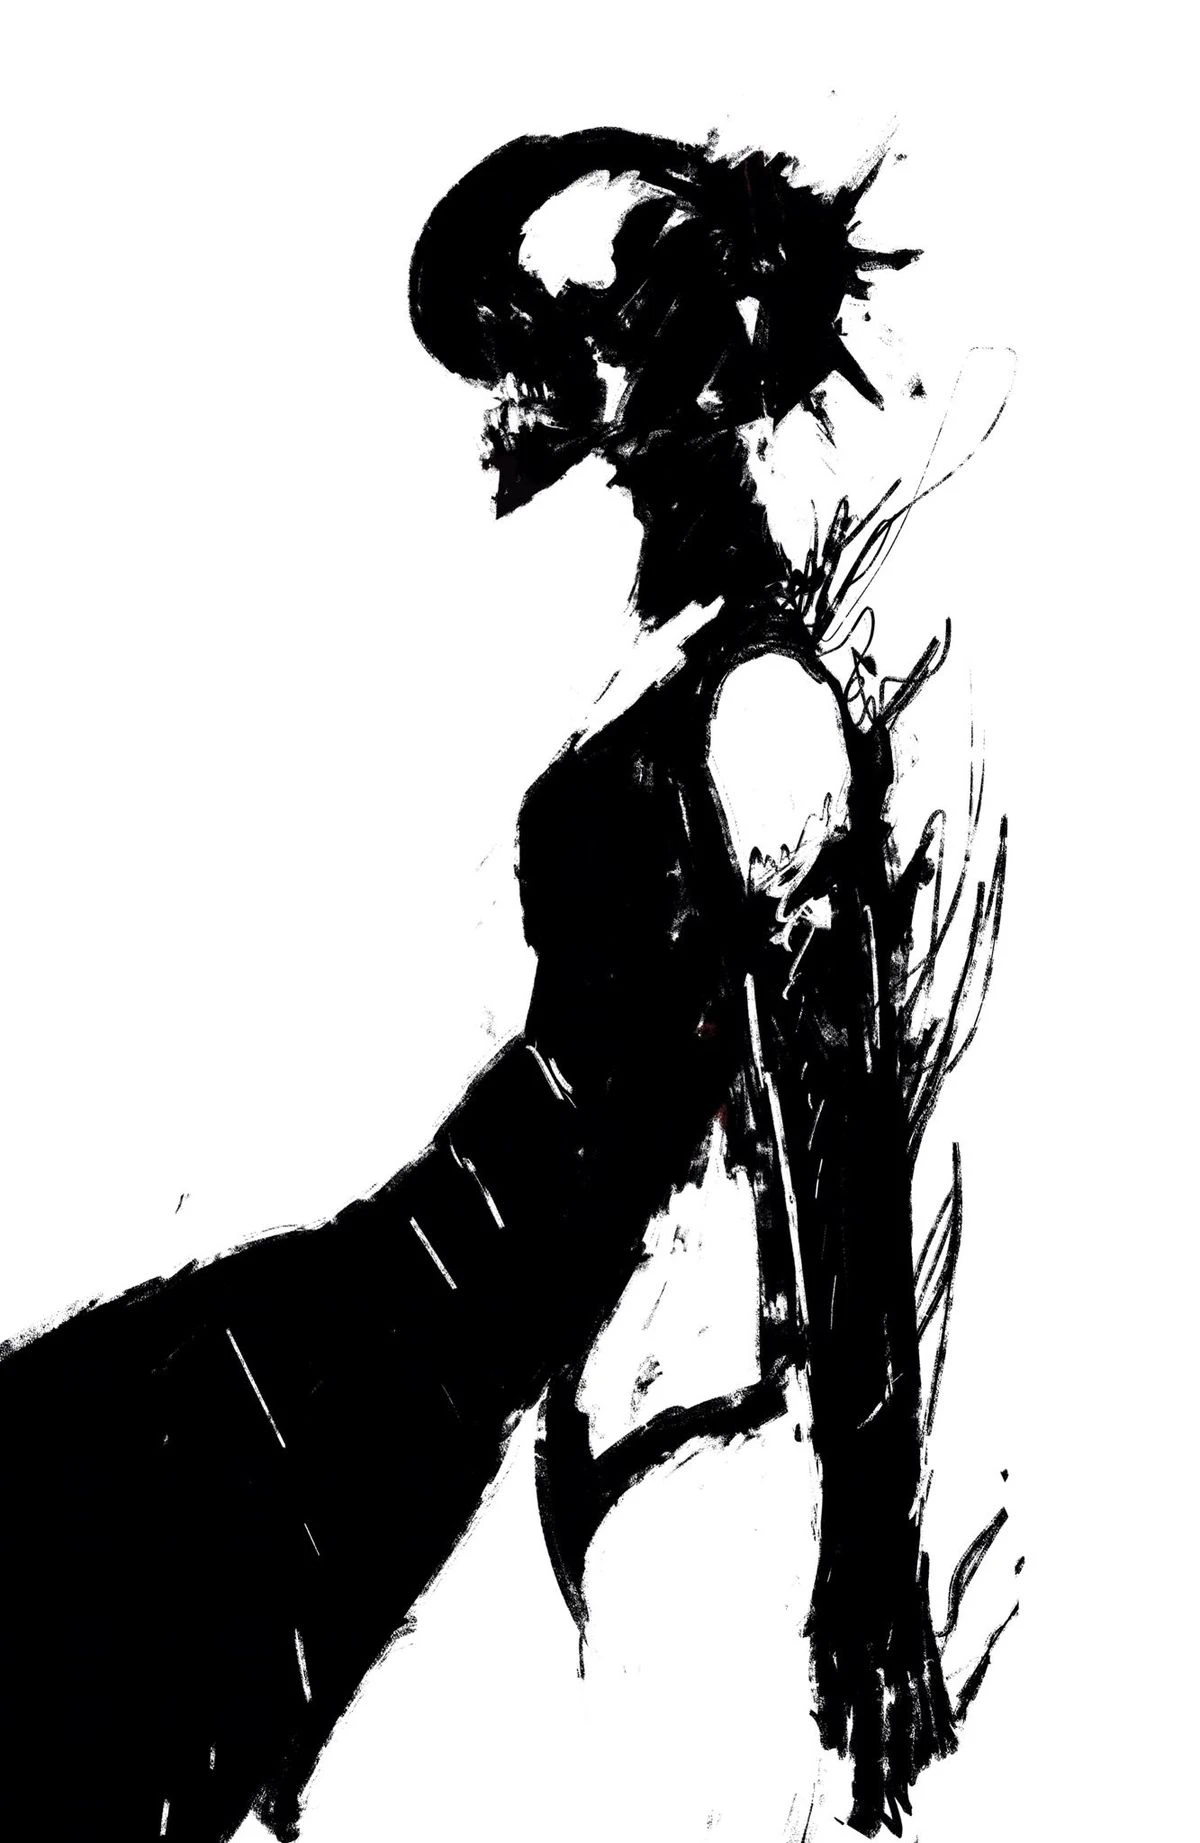
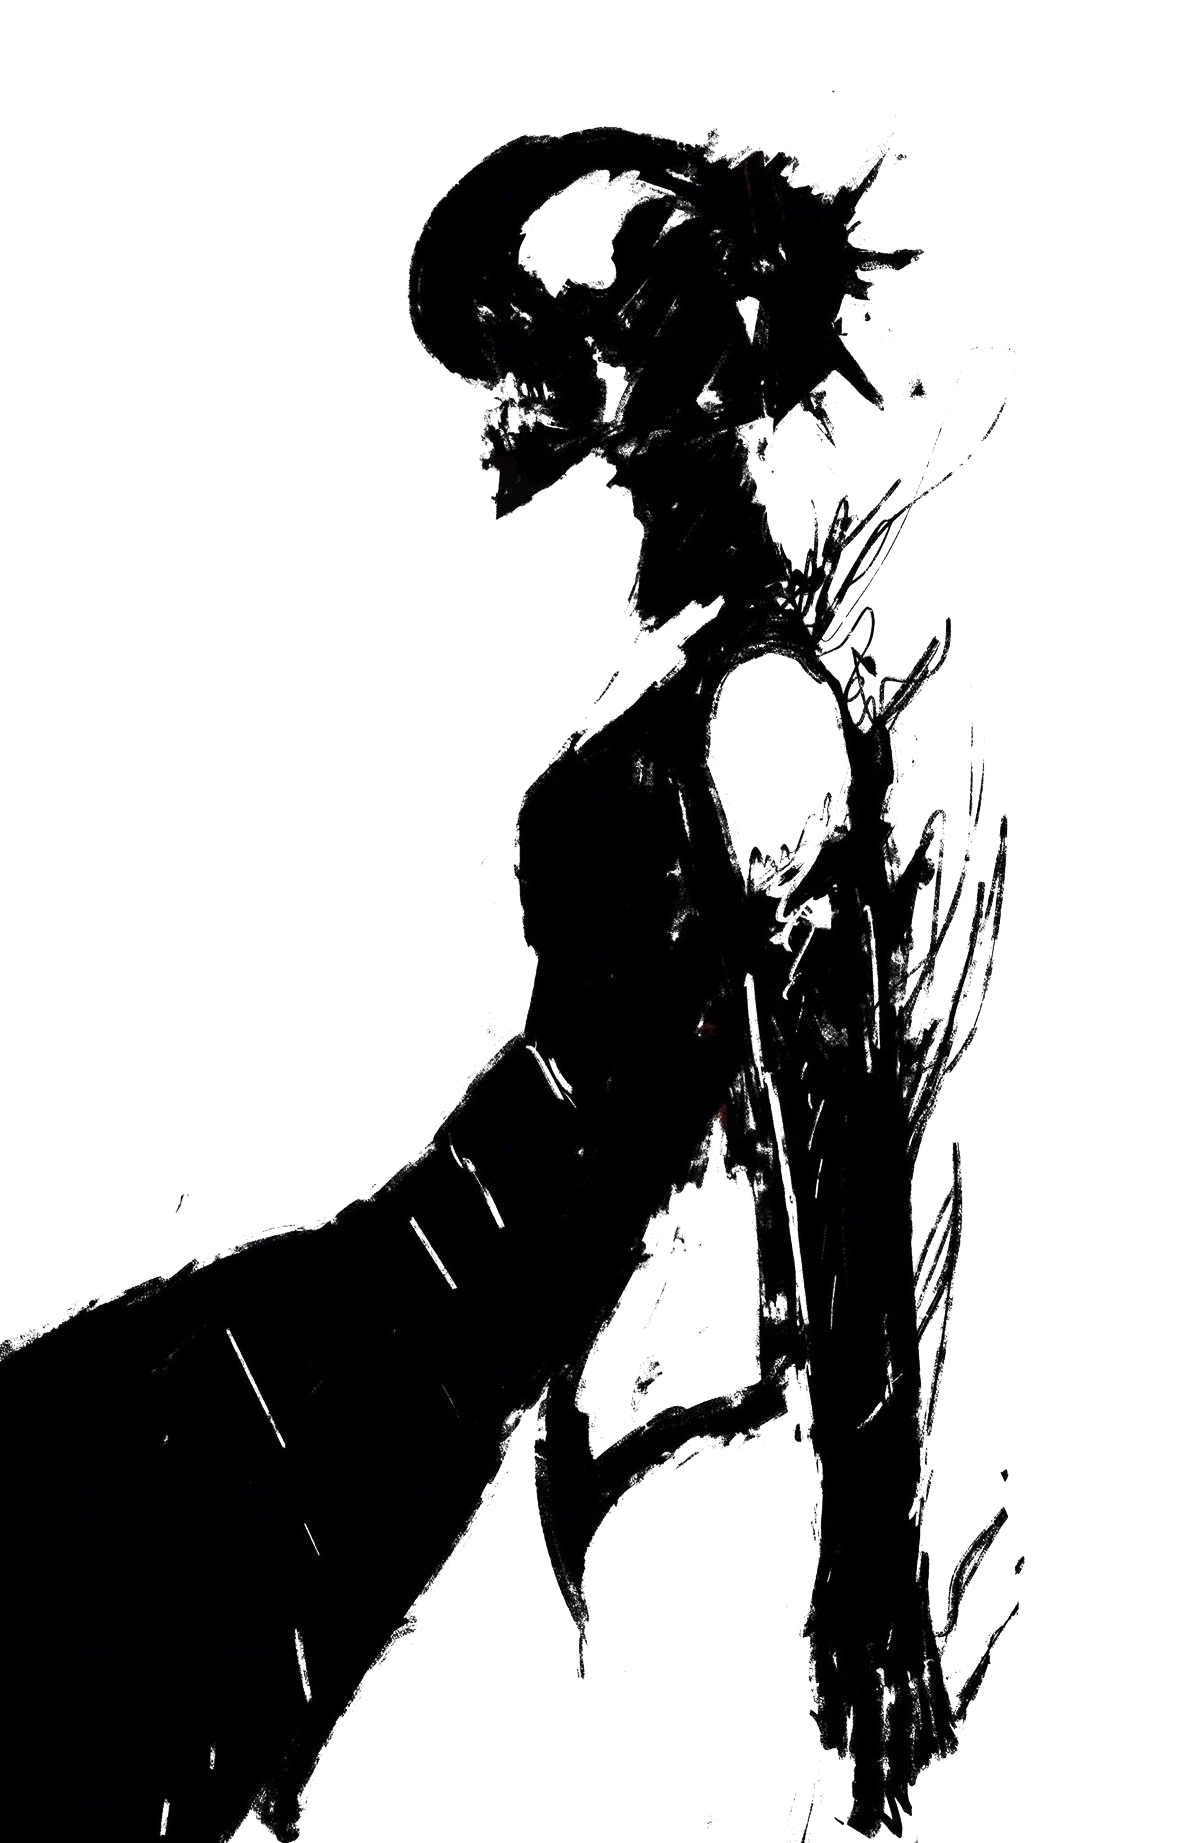
AB#76 Fit the footer stage picture whole, with a transparent background [feat]

diff --git a/platform/frontend/lib/landing-features.ts b/platform/frontend/lib/landing-features.ts
@@ -13,8 +13,10 @@ export type FeatureMedia =
   /** A generated blue pattern. `pattern` picks which of the six. */
   | { kind: "tile"; pattern: TilePattern }
   /** `tone: "duotone"` (the default) tints it to the page's blue, like the rest of the
-   * grid; `"natural"` leaves it as it is. */
-  | { kind: "image"; src: string; altKey: string; tone?: FeatureTone }
+   * grid; `"natural"` leaves it as it is. `fit: "cover"` (the default) fills its box,
+   * cropping to it; `"contain"` shows the whole picture, letterboxed in the duotone's own
+   * blue — for a picture whose box isn't square, like the footer stage. */
+  | { kind: "image"; src: string; altKey: string; tone?: FeatureTone; fit?: "cover" | "contain" }
   /** Several pictures that take turns in the same square, cross-fading. Only while the cell is on
    * screen, and never under reduced motion, where the first one stays. Each carries a short
    * description (`altKey`) and a label shown on it (`titleKey`, `captionKey`). */

diff --git a/platform/frontend/components/landing/feature-media.tsx b/platform/frontend/components/landing/feature-media.tsx
@@ -215,7 +215,12 @@ export default function FeatureMediaView({
       // A static file from /public, optimised when it was made. A single picture stays where it
       // is: only the See cell's studies, which take turns, drift as the page scrolls.
       // eslint-disable-next-line @next/next/no-img-element
-      <img src={media.src} alt={t(media.altKey)} loading="lazy" className="h-full w-full object-cover" />
+      <img
+        src={media.src}
+        alt={t(media.altKey)}
+        loading="lazy"
+        className={`h-full w-full ${media.fit === "contain" ? "object-contain" : "object-cover"}`}
+      />
     );
 
   return natural ? <span className="block h-full w-full">{picture}</span> : <Duotone>{picture}</Duotone>;

diff --git a/platform/frontend/components/landing/landing-footer.tsx b/platform/frontend/components/landing/landing-footer.tsx
@@ -11,6 +11,7 @@ const STAGE = {
   kind: "image",
   src: "/landing/footer/ink-figure.webp",
   altKey: "marketing.footer.stageAlt",
+  fit: "contain",
 } as const;
 
 /** The landing page's footer, as the Hermes page builds its own: a full screen on its own. A picture fills
